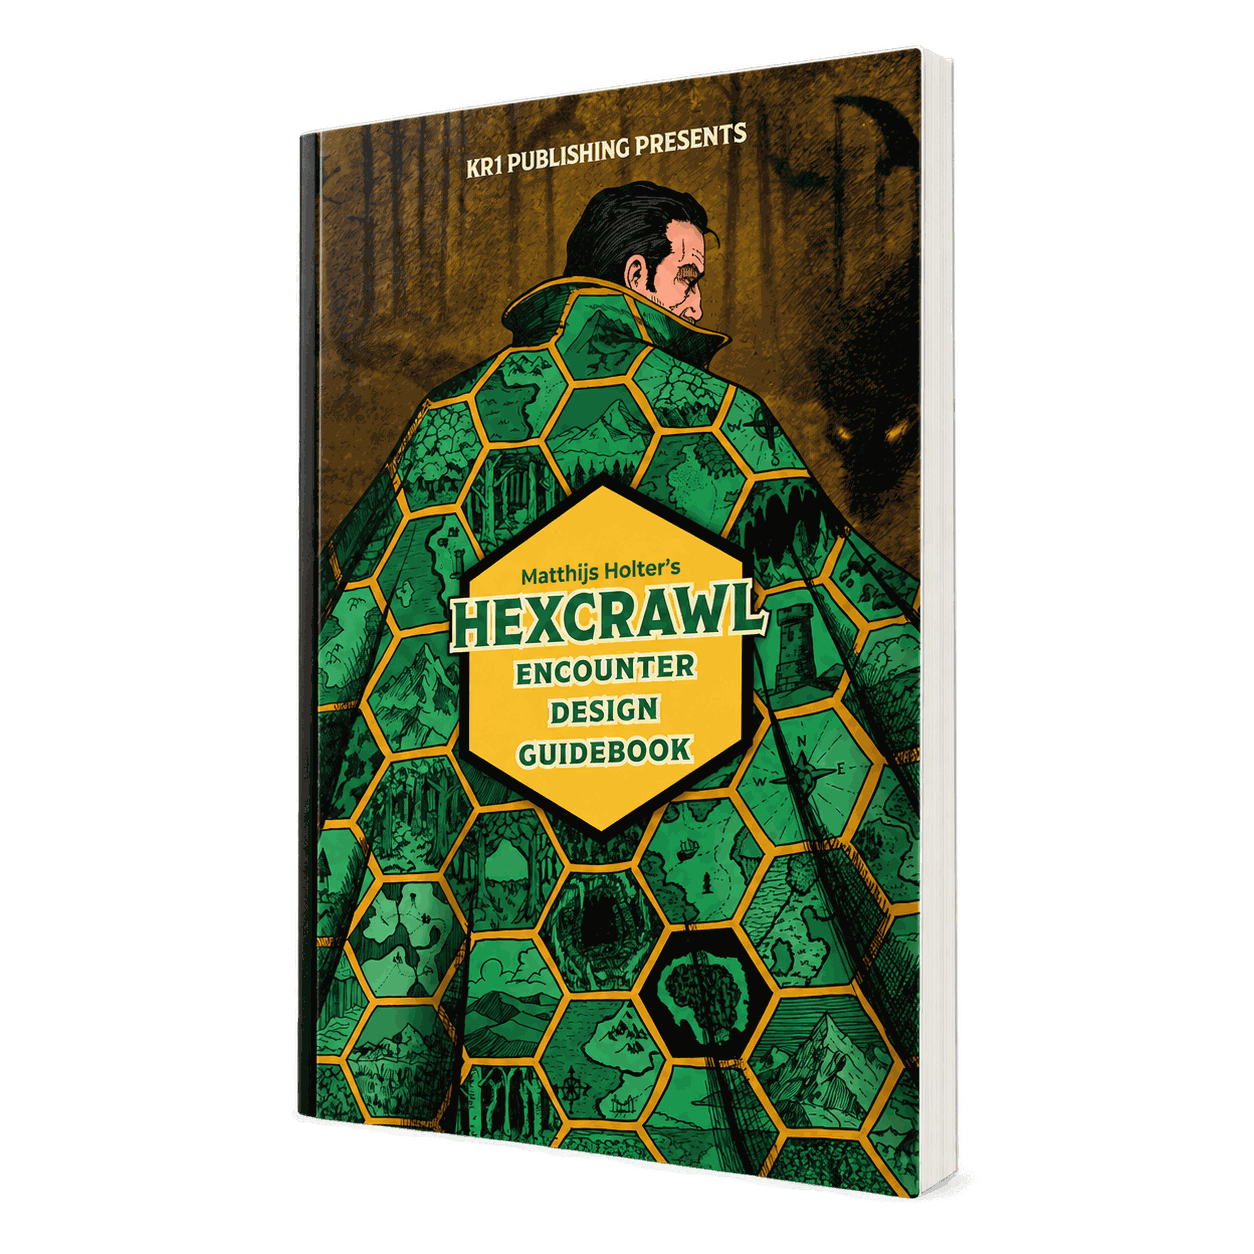
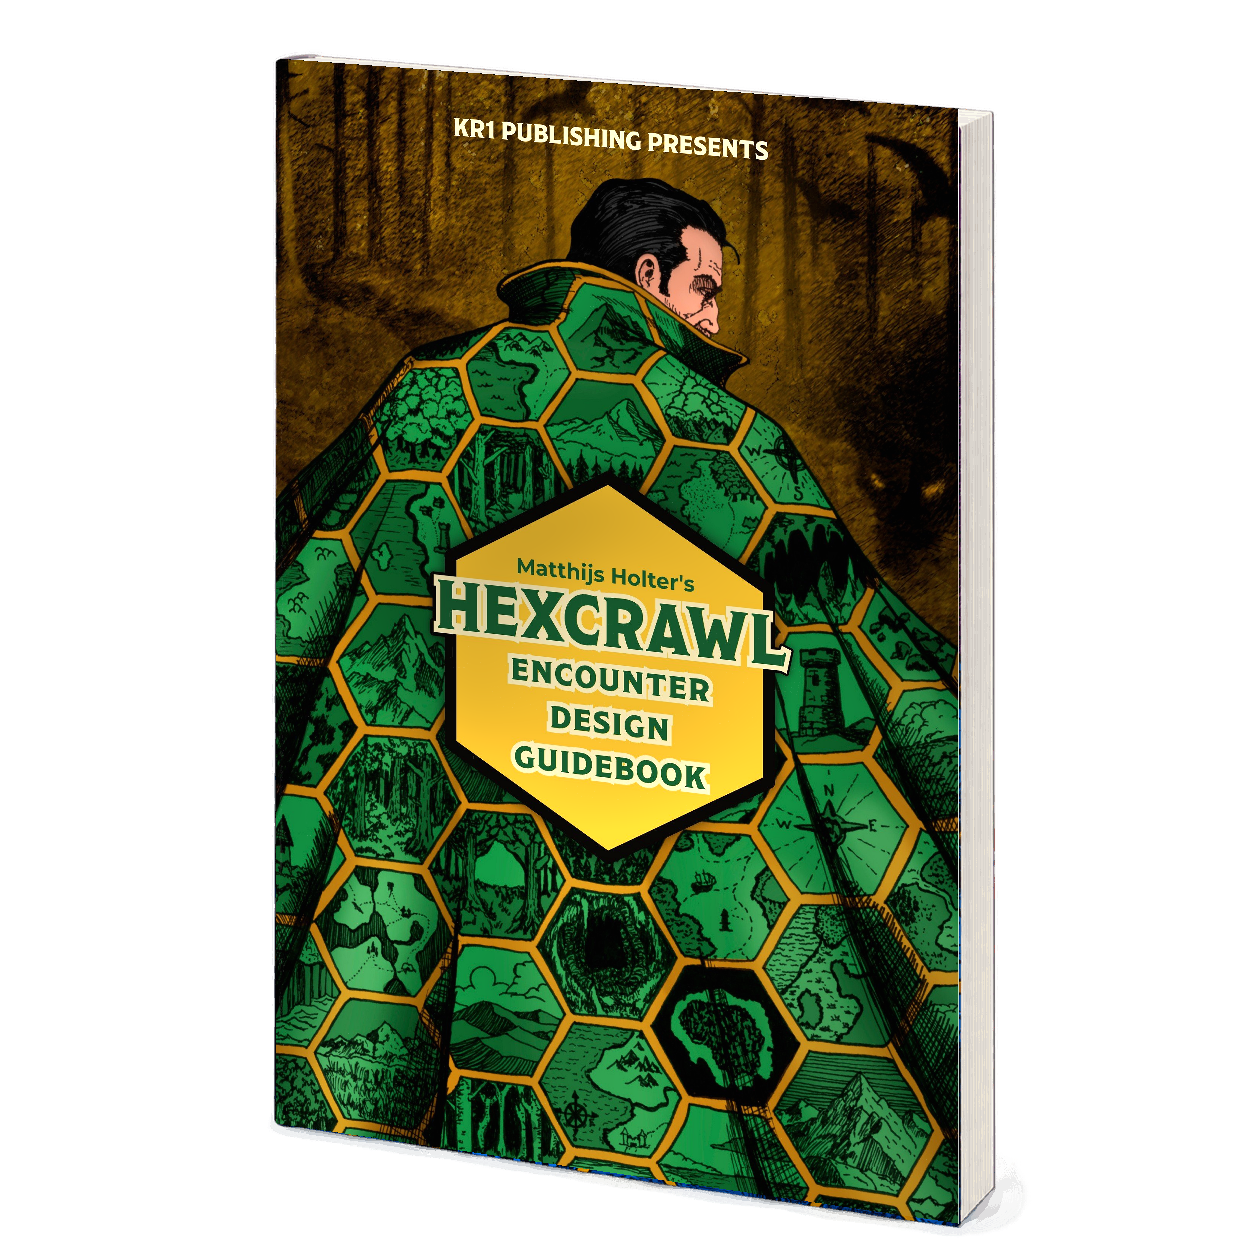
Hexcrawl book 2 mockup rebuilt on the same book angle as books 1 and 3
Claude-Session: https://claude.ai/code/session_01Go6ret7jCLgDqqds4EMTee

diff --git a/assets.html b/assets.html
@@ -494,7 +494,7 @@ Cover art by Nicolai Strøm
 Published by KR1 Publishing">Copy product text</button>
       
       <a class="btn tiny unlockbtn" data-ref="pdf_hexcrawl-encounter" data-href="/files/books/hexcrawl-encounter.pdf" style="text-decoration:none;display:inline-block">Reading copy (PDF)</a>
-      <a class="btn tiny unlockbtn" data-ref="mockup_hexcrawl-encounter" data-href="/img/mockups/hexcrawl-encounter.png?v=2" style="text-decoration:none;display:inline-block">Mockup (PNG)</a>
+      <a class="btn tiny unlockbtn" data-ref="mockup_hexcrawl-encounter" data-href="/img/mockups/hexcrawl-encounter.png?v=3" style="text-decoration:none;display:inline-block">Mockup (PNG)</a>
       </div></div>
 
     <div class="pcard"><img src="img/covers-hires/hexcrawl-worldbuilding.jpg?v=2" alt="Hexcrawl: Worldbuilding Design Guidebook cover">

diff --git a/ressurser.html b/ressurser.html
@@ -494,7 +494,7 @@ Omslag av Nicolai Strøm
 Utgitt av KR1 Publishing">Kopier produkttekst</button>
       
       <a class="btn tiny unlockbtn" data-ref="pdf_hexcrawl-encounter" data-href="/files/books/hexcrawl-encounter.pdf" style="text-decoration:none;display:inline-block">Lesekopi (PDF)</a>
-      <a class="btn tiny unlockbtn" data-ref="mockup_hexcrawl-encounter" data-href="/img/mockups/hexcrawl-encounter.png?v=2" style="text-decoration:none;display:inline-block">Mockup (PNG)</a>
+      <a class="btn tiny unlockbtn" data-ref="mockup_hexcrawl-encounter" data-href="/img/mockups/hexcrawl-encounter.png?v=3" style="text-decoration:none;display:inline-block">Mockup (PNG)</a>
       </div></div>
 
     <div class="pcard"><img src="img/covers-hires/hexcrawl-worldbuilding.jpg?v=2" alt="Hexcrawl: Worldbuilding Design Guidebook cover">

diff --git a/hexcrawl.html b/hexcrawl.html
@@ -180,7 +180,7 @@ footer a:hover{text-decoration:underline}
   </div>
   <div class="fan">
     <img src="/img/series/hexcrawl-campaign.webp" alt="Hexcrawl Campaign Style Guidebook" width="517" height="760">
-    <img src="/img/series/hexcrawl-encounter.webp" alt="Hexcrawl Encounter Design Guidebook" width="461" height="760">
+    <img src="/img/series/hexcrawl-encounter.webp" alt="Hexcrawl Encounter Design Guidebook" width="487" height="760">
     <img src="/img/series/hexcrawl-worldbuilding.webp" alt="Hexcrawl Worldbuilding Design Guidebook" width="487" height="760">
   </div>
 </div></div></header>
